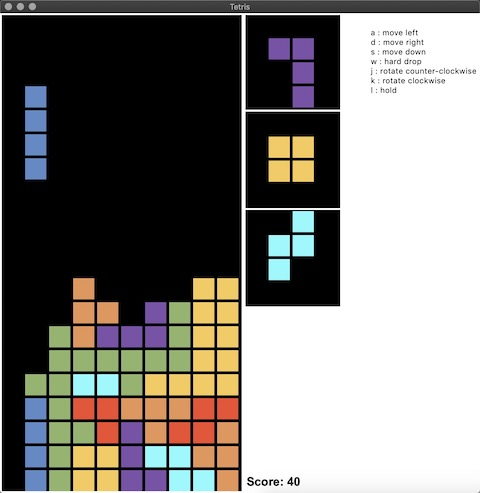
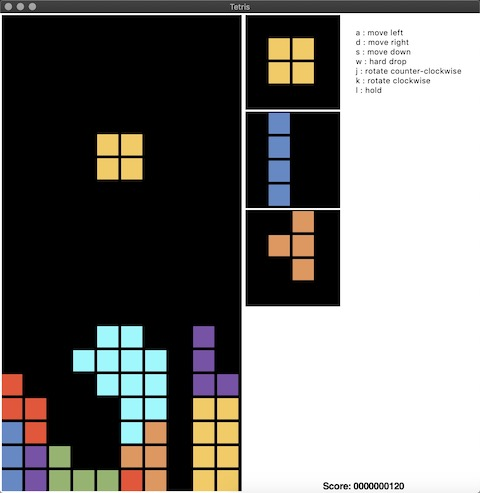
add hidden lines to board

diff --git a/tetris/game.py b/tetris/game.py
@@ -9,12 +9,15 @@ from tetromino import Piece
 class Game(Env):
     """
     Tetris game environment that represents the core of tetris.
-    gui:            if GUI mode is enabled
-    drop_interval:  interval in second for tetromino natually drops
+    Inputs:
+        next_queue_size:   the length of next tertromino queue size
+    Important Members:
+        score:      score of current game
+        piece:      current tetromino piece that player is controlling
+        main_board: tetris game board (10x22), 2 rows are invisible to player
+        next_queue: shapes that will be spawned in next steps
     """
-    def __init__(self, gui=False, drop_interval=1.0, next_queue_size=5):
-        self.gui = gui
-        self.drop_interval = drop_interval
+    def __init__(self, next_queue_size=5):
         self.next_queue_size = next_queue_size
         self.init_game()
 
@@ -23,23 +26,24 @@ class Game(Env):
         self.piece = None
         self.game_over = False
         # Initalize board
-        self.main_board = np.zeros(shape=(10,20), dtype=int)
+        self.main_board = np.zeros(shape=(10,22), dtype=int)
         # Initialize next queue
         self.next_queue = []
         for i in range(self.next_queue_size):
             self.next_queue.append(Piece(np.random.randint(7)))
 
     def next_queue_state(self):
+        """
+        returns shapes in ndarray of next queue.
+        """
         nq = []
         for s in self.next_queue:
-            s, p = s.get()
+            s, _ = s.get()
             nq.append(s)
         return np.array(nq)
 
     def render(self, mode='human', close=False):
         if mode == 'gui':
-            if self.game_over:
-                return self.main_board, self.next_queue_state(), self.score
             return self.look_board(), self.next_queue_state(), self.score
 
     def step(self, action):
@@ -60,7 +64,7 @@ class Game(Env):
             done:       if game over
         """
         if self.game_over or self.piece is None:
-            return (self.main_board, self.next_queue_state()), self.score, self.game_over
+            return (self.look_board(), self.next_queue_state()), self.score, self.game_over
         if action == 1:
             shape, pos, index = self.piece.try_move_left()
         elif action == 2:
@@ -85,13 +89,10 @@ class Game(Env):
             self.piece.commit(pos, index)
         else:
             # move down failed, piece landed
-            if action == 3:
+            if action == 3 or action == 4:
                 s, p = self.piece.get()
                 self.land_piece(s, p)
-        if self.game_over:
-            return (self.main_board, self.next_queue_state()), self.score, self.game_over
-        else:
-            return (self.look_board(), self.next_queue_state()), self.score, self.game_over
+        return (self.look_board(), self.next_queue_state()), self.score, self.game_over
 
     def reset(self):
         self.init_game()
@@ -133,7 +134,7 @@ class Game(Env):
         """
         top = pos[1]
         lines = []
-        for j in range(top, min(top+4, 20)):
+        for j in range(top, min(top+4, 22)):
             for i in range(0, 10):
                 if self.main_board[i, j] == 0:
                     break
@@ -164,22 +165,24 @@ class Game(Env):
 
     def look_board(self):
         """
-        look at main board with piece.
-        returns main board np array with the piece.
+        look at main board with current moving piece.
+        only returns board that visible to player (10x20)
         """
-        if self.piece == None:
-            return self.main_board
-        shape, pos = self.piece.get()
         board = self.main_board.copy()
-        for i, line in enumerate(shape):
-            for j, v in enumerate(line):
-                if v > 0:
-                    assert board[pos[0]+i, pos[1]+j] == 0, 'piece conflict on board'
-                    board[pos[0]+i, pos[1]+j] = v
-        return board
+        if self.piece is not None and self.game_over is False:
+            shape, pos = self.piece.get()
+            for i, line in enumerate(shape):
+                for j, v in enumerate(line):
+                    if v > 0:
+                        assert board[pos[0]+i, pos[1]+j] == 0, 'piece conflict on board'
+                        board[pos[0]+i, pos[1]+j] = v
+        return board[:,2:]
 
     def check_boundry(self, x, y):
-        if x >= 0 and x <= 9 and y >= 0 and y <= 19:
+        """
+        Check if piece is outside of board boundary.
+        """
+        if x >= 0 and x <= 9 and y >= 0 and y <= 21:
             return True
         return False
 

diff --git a/tetris/gui.py b/tetris/gui.py
@@ -25,7 +25,7 @@ BLACK       = "#000000"
 class GameGUI(object):
     def __init__(self, drop_interval=1000):
         # Init tetris game core
-        self.tetris = Game(gui=True)
+        self.tetris = Game()
         self.game_started = False
         self.drop_interval = drop_interval
         self.first_game = True
@@ -71,11 +71,11 @@ w : hard drop
 j : rotate counter-clockwise
 k : rotate clockwise
 l : hold"""
-        self.side_board.create_text(int(GUI_HEIGHT*3/8), 80, text=help_text)
+        self.side_board.create_text(int(GUI_WIDTH*11/32), 80, text=help_text)
         # Display score
-        self.score = self.side_board.create_text(92, GUI_HEIGHT-12,
+        self.score = self.side_board.create_text(int(GUI_WIDTH/4), GUI_HEIGHT-12,
                                         text="Score: 0000000000",
-                                        font="Helvetica 20 bold")
+                                        font="Helvetica 16 bold")
 
         # Next queue backgrounds
         self.side_board.create_rectangle(0,0,
